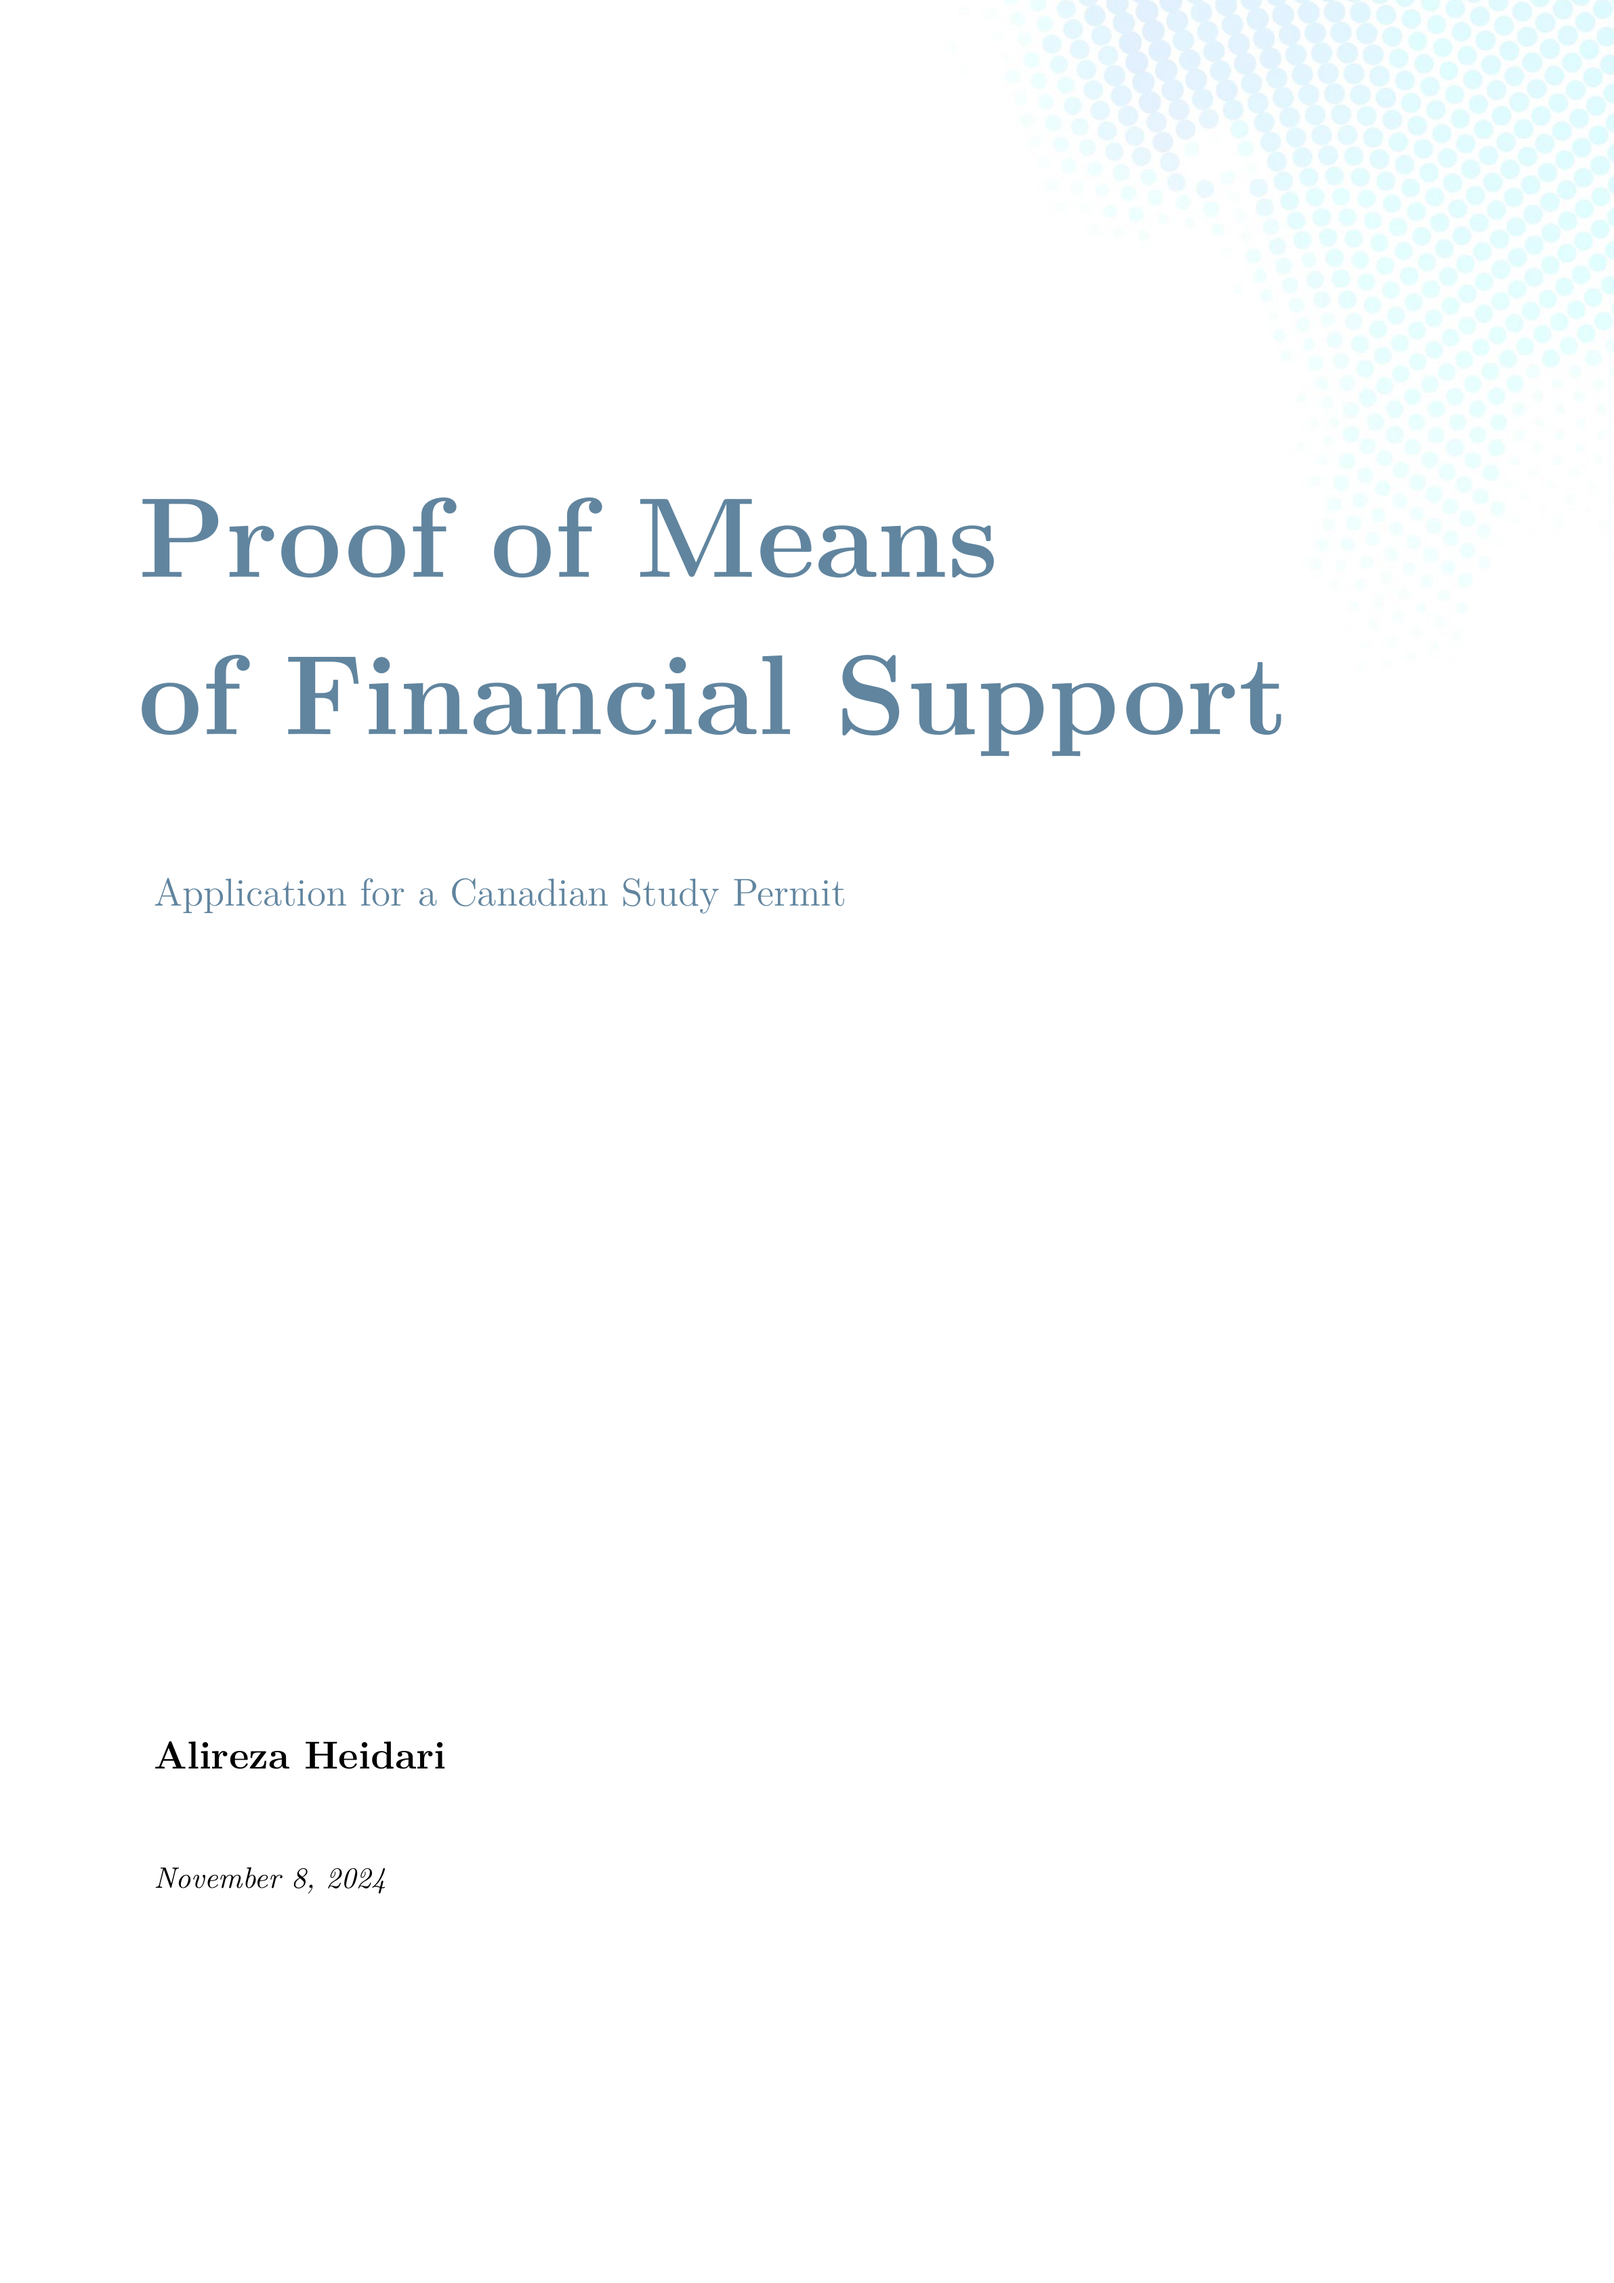
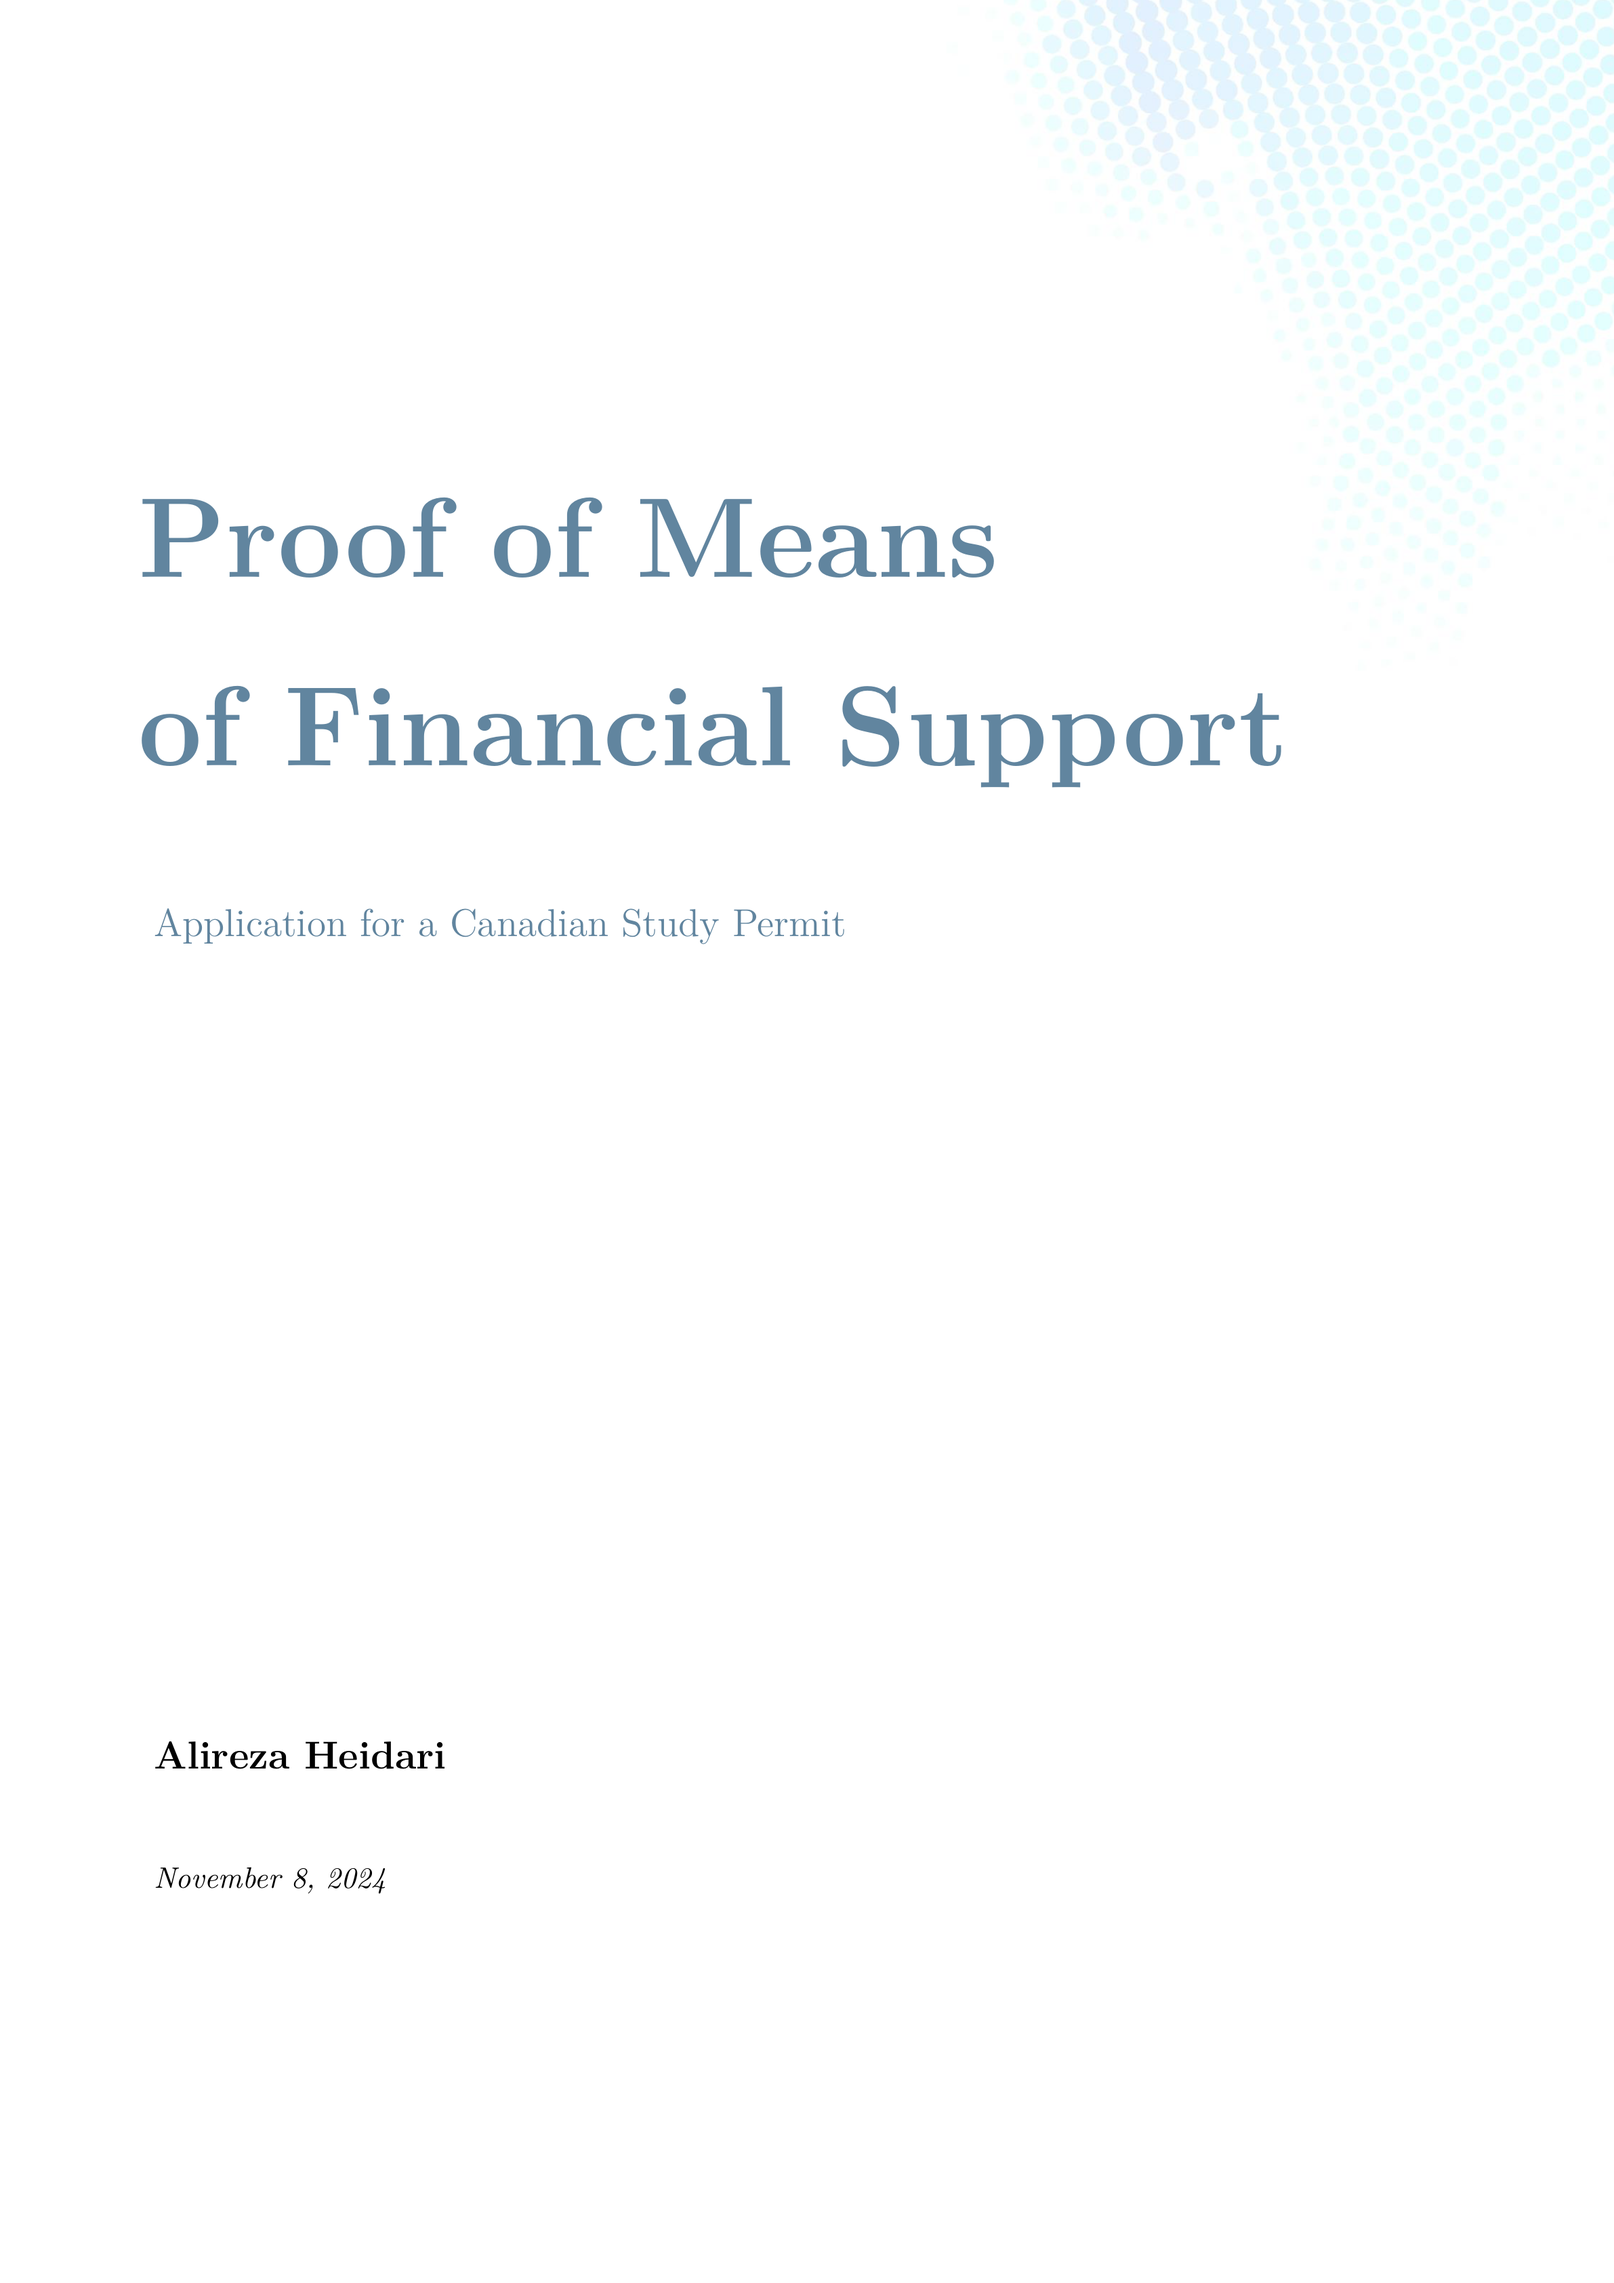
improved pmfs

diff --git a/proof-of-financial-support/titlepage.tex b/proof-of-financial-support/titlepage.tex
@@ -4,11 +4,11 @@
     \begin{minipage}{0.9\textwidth}
         \vspace{4.5cm}
         {\hspace{-0.2cm}\color{myBlue}\fontsize{42}{20}\selectfont{\textbf{\documentTitleFirstLine}}\par}
-        \vspace{1.cm}
+        \vspace{1.4cm}
         {\hspace{-0.2cm}\color{myBlue}\fontsize{42}{20}\selectfont\bfseries\documentTitleSecondLine\par}
         \vspace{1.5cm}
         {\color{myBlue}\Large Application for a Canadian Study Permit\par}
-        \vspace{10.5cm}
+        \vspace{10.1cm}
         {\Large\textbf{\applicantName}\par}
         % If you have a UCI, uncomment the following line
         % {\vspace{0.8cm}\normalsize \textbf{Unique Client Identifier:} 1111-1111-11\vspace{2cm}\par}
